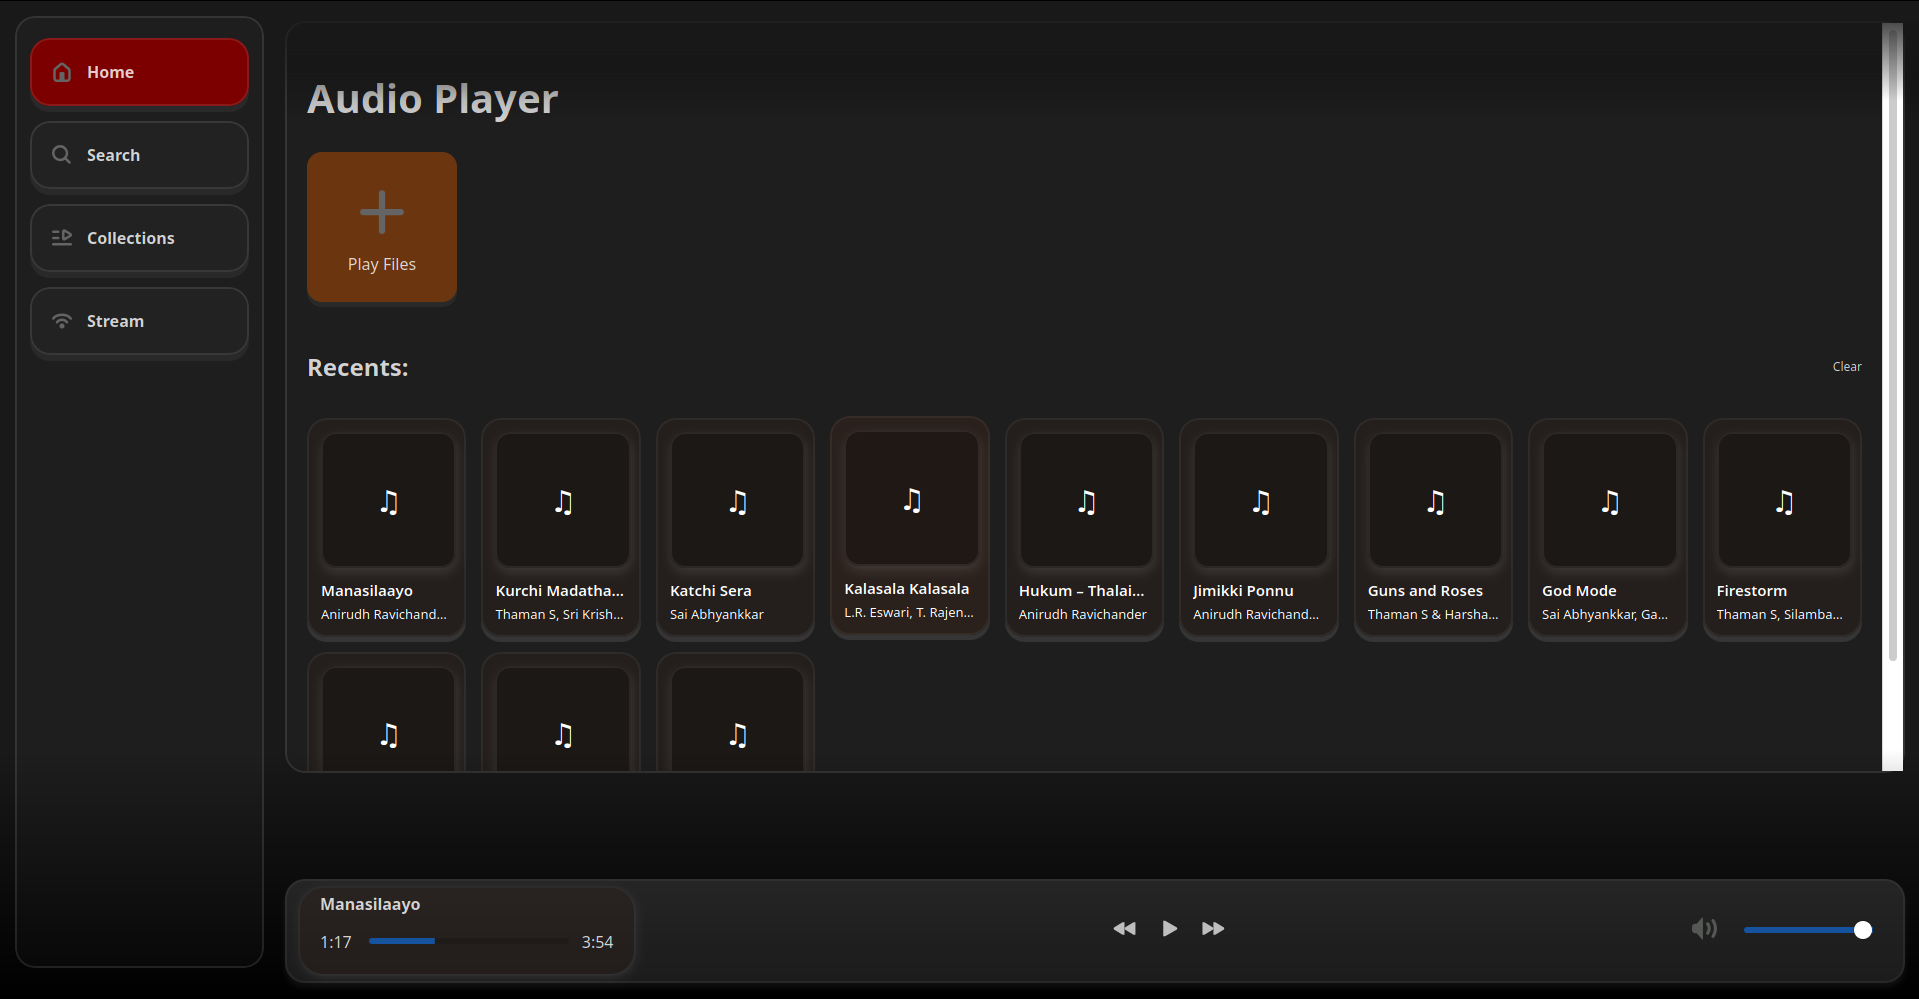
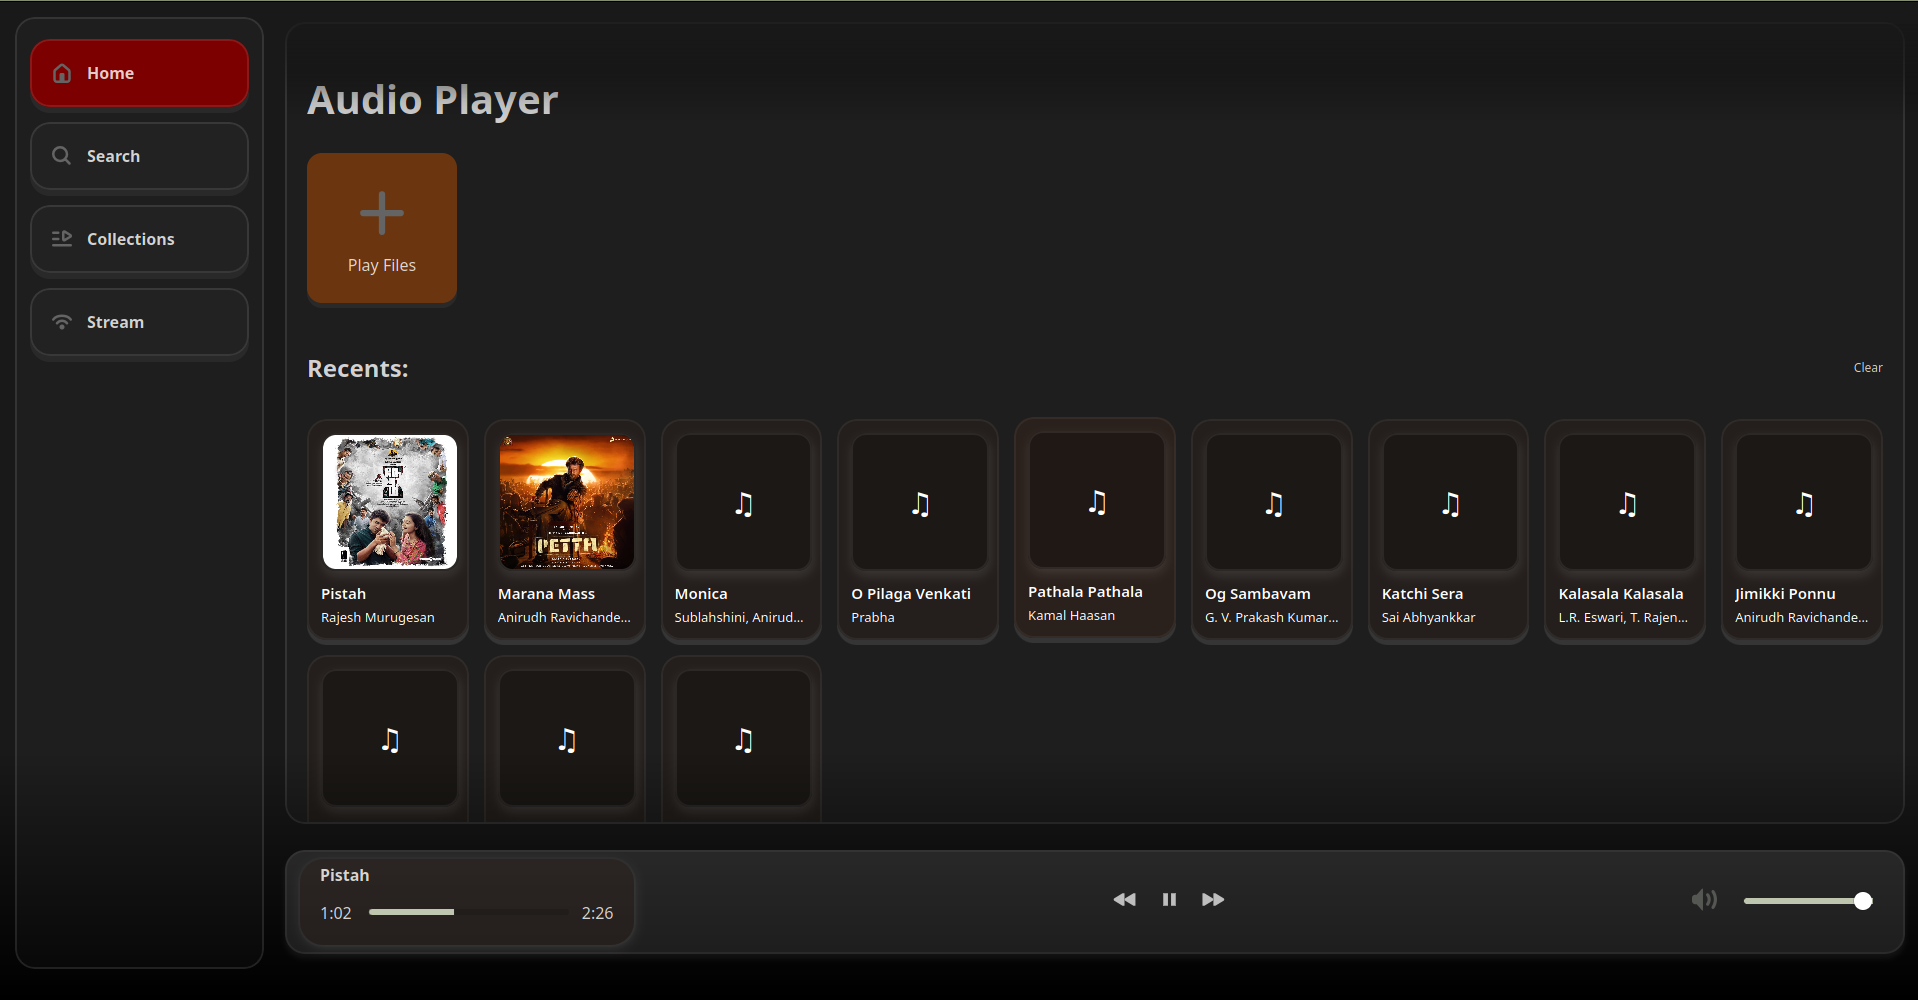
modified UI

diff --git a/src/styles.css b/src/styles.css
@@ -73,12 +73,13 @@ body, html {
 }
 .main-content {
     margin-left: 285px;
+    scrollbar-width: none;
     border-radius: 20px;
     border: solid 2px rgba(255, 255, 255, 0.1);
     margin-top: 20px;
     margin-right: 15px;
     background-color: rgba(255, 255, 255, 0.02);
-    height: 75vh;
+    height: 80vh;
     overflow: auto;
 
 }
@@ -119,7 +120,7 @@ body, html {
     position: fixed;
     bottom: 20px;
     z-index: 101;
-    height: 100px;
+    height: 13vh;
 }
 .player {
         margin-left: 285px;
